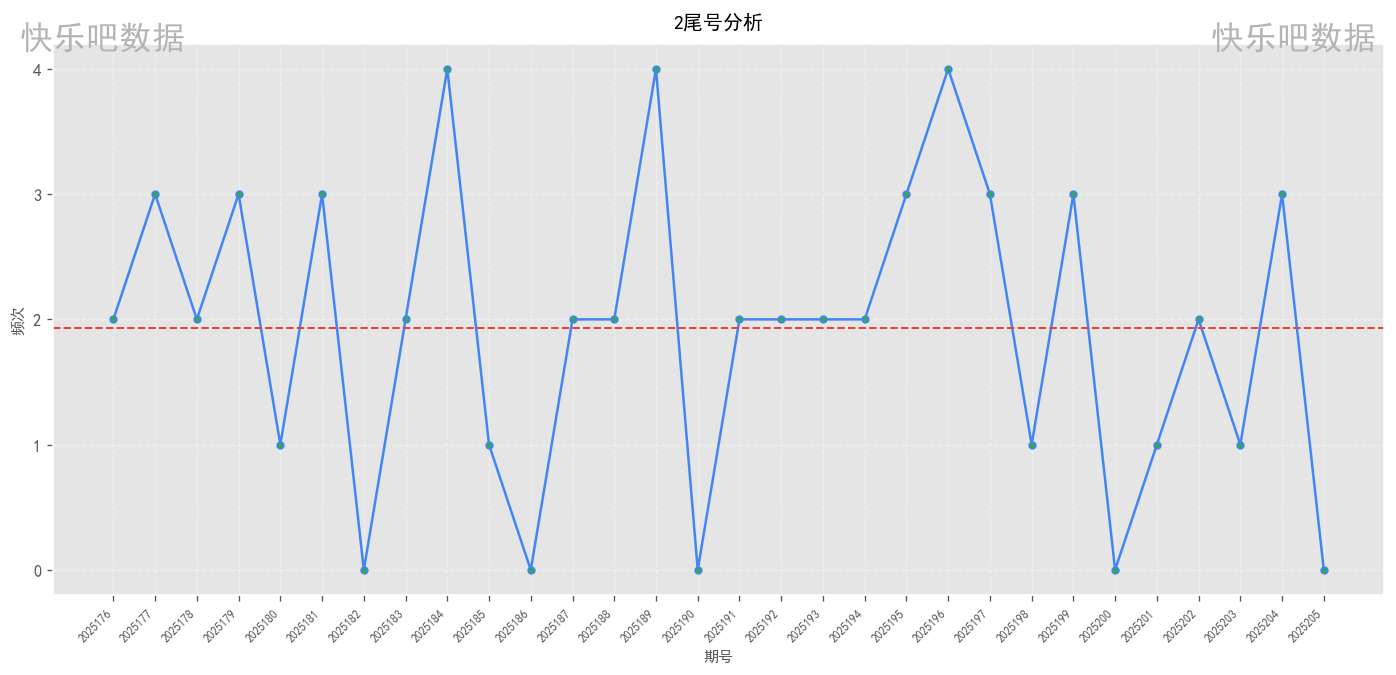
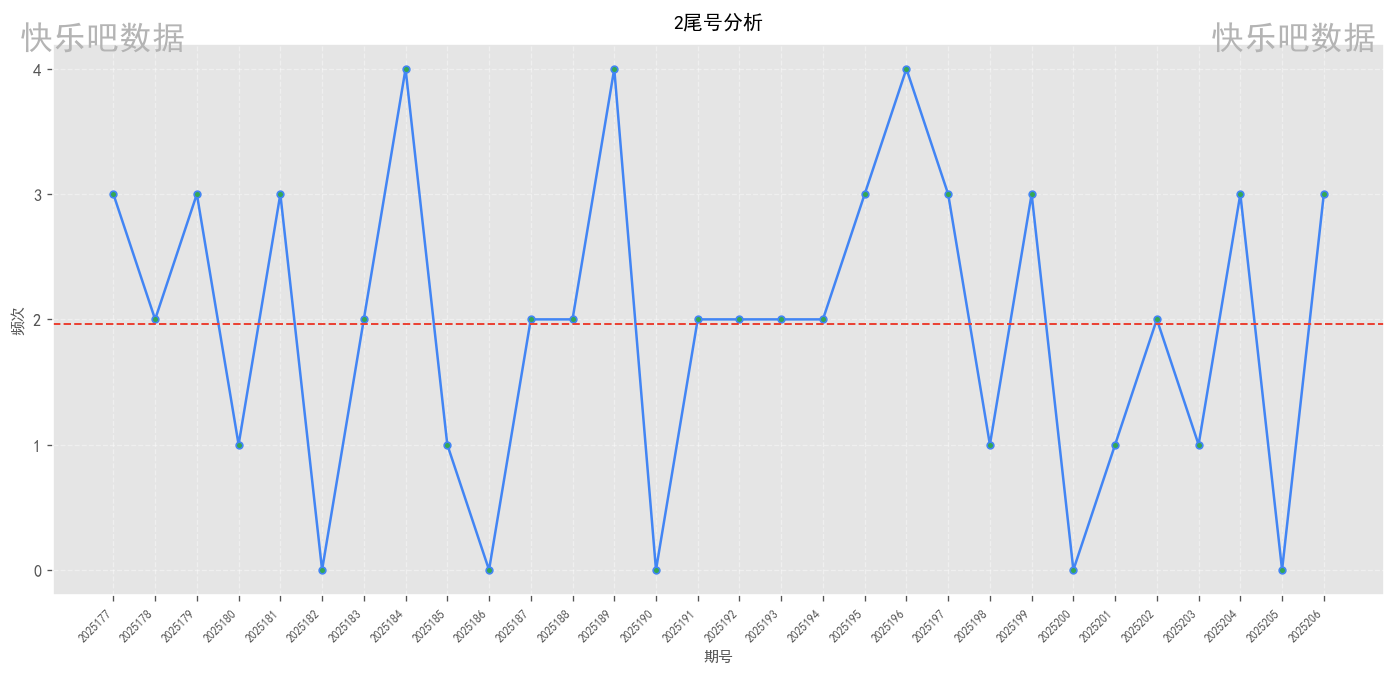
自动提交报告 20250804_2313

diff --git a/快乐8尾号分析项目/数据报告/20250804/report.html b/快乐8尾号分析项目/数据报告/20250804/report.html
@@ -440,7 +440,7 @@
                     <div class="label">尾号区间</div>
                 </div>
                 <div class="overview-card">
-                    <div class="value">2025205</div>
+                    <div class="value">2025206</div>
                     <div class="label">最新期号</div>
                 </div>
                 <div class="overview-card">
@@ -464,11 +464,11 @@
             <div class="stats-summary">
                 <div class="stat-item">
                     <span class="stat-label">历史平均</span>
-                    <span class="stat-value">2.10</span>
+                    <span class="stat-value">2.17</span>
                 </div>
                 <div class="stat-item">
                     <span class="stat-label">近期平均</span>
-                    <span class="stat-value">2.60</span>
+                    <span class="stat-value">2.80</span>
                 </div>
                 <div class="stat-item">
                     <span class="stat-label">最高频次</span>
@@ -486,11 +486,11 @@
             <div class="stats-summary">
                 <div class="stat-item">
                     <span class="stat-label">历史平均</span>
-                    <span class="stat-value">2.10</span>
+                    <span class="stat-value">1.97</span>
                 </div>
                 <div class="stat-item">
                     <span class="stat-label">近期平均</span>
-                    <span class="stat-value">2.20</span>
+                    <span class="stat-value">1.80</span>
                 </div>
                 <div class="stat-item">
                     <span class="stat-label">最高频次</span>
@@ -508,11 +508,11 @@
             <div class="stats-summary">
                 <div class="stat-item">
                     <span class="stat-label">历史平均</span>
-                    <span class="stat-value">1.93</span>
+                    <span class="stat-value">1.97</span>
                 </div>
                 <div class="stat-item">
                     <span class="stat-label">近期平均</span>
-                    <span class="stat-value">1.40</span>
+                    <span class="stat-value">1.80</span>
                 </div>
                 <div class="stat-item">
                     <span class="stat-label">最高频次</span>
@@ -530,11 +530,11 @@
             <div class="stats-summary">
                 <div class="stat-item">
                     <span class="stat-label">历史平均</span>
-                    <span class="stat-value">2.30</span>
+                    <span class="stat-value">2.33</span>
                 </div>
                 <div class="stat-item">
                     <span class="stat-label">近期平均</span>
-                    <span class="stat-value">3.00</span>
+                    <span class="stat-value">2.40</span>
                 </div>
                 <div class="stat-item">
                     <span class="stat-label">最高频次</span>
@@ -552,11 +552,11 @@
             <div class="stats-summary">
                 <div class="stat-item">
                     <span class="stat-label">历史平均</span>
-                    <span class="stat-value">1.70</span>
+                    <span class="stat-value">1.77</span>
                 </div>
                 <div class="stat-item">
                     <span class="stat-label">近期平均</span>
-                    <span class="stat-value">1.60</span>
+                    <span class="stat-value">1.80</span>
                 </div>
                 <div class="stat-item">
                     <span class="stat-label">最高频次</span>
@@ -574,11 +574,11 @@
             <div class="stats-summary">
                 <div class="stat-item">
                     <span class="stat-label">历史平均</span>
-                    <span class="stat-value">2.20</span>
+                    <span class="stat-value">2.17</span>
                 </div>
                 <div class="stat-item">
                     <span class="stat-label">近期平均</span>
-                    <span class="stat-value">1.60</span>
+                    <span class="stat-value">1.80</span>
                 </div>
                 <div class="stat-item">
                     <span class="stat-label">最高频次</span>
@@ -596,11 +596,11 @@
             <div class="stats-summary">
                 <div class="stat-item">
                     <span class="stat-label">历史平均</span>
-                    <span class="stat-value">2.10</span>
+                    <span class="stat-value">2.03</span>
                 </div>
                 <div class="stat-item">
                     <span class="stat-label">近期平均</span>
-                    <span class="stat-value">1.40</span>
+                    <span class="stat-value">1.00</span>
                 </div>
                 <div class="stat-item">
                     <span class="stat-label">最高频次</span>
@@ -618,11 +618,11 @@
             <div class="stats-summary">
                 <div class="stat-item">
                     <span class="stat-label">历史平均</span>
-                    <span class="stat-value">1.70</span>
+                    <span class="stat-value">1.73</span>
                 </div>
                 <div class="stat-item">
                     <span class="stat-label">近期平均</span>
-                    <span class="stat-value">2.60</span>
+                    <span class="stat-value">2.40</span>
                 </div>
                 <div class="stat-item">
                     <span class="stat-label">最高频次</span>
@@ -644,7 +644,7 @@
                 </div>
                 <div class="stat-item">
                     <span class="stat-label">近期平均</span>
-                    <span class="stat-value">1.80</span>
+                    <span class="stat-value">2.20</span>
                 </div>
                 <div class="stat-item">
                     <span class="stat-label">最高频次</span>
@@ -666,7 +666,7 @@
                 </div>
                 <div class="stat-item">
                     <span class="stat-label">近期平均</span>
-                    <span class="stat-value">1.80</span>
+                    <span class="stat-value">2.00</span>
                 </div>
                 <div class="stat-item">
                     <span class="stat-label">最高频次</span>
@@ -690,7 +690,7 @@
         <div class="disclaimer">
             <div class="disclaimer-title"><i class="fas fa-exclamation-circle"></i> 法律声明</div>
             <p>本分析报告基于中国福利彩票官网公开数据制作，仅供历史数据分析与参考，严禁用于赌博或任何违法违规用途。</p>
-            <p>根据中国法律，禁止向未成年人传播彩票相关信息。数据统计周期: 2025176期-2025205期 | 生成时间: 2025-08-04 23:06</p>
+            <p>根据中国法律，禁止向未成年人传播彩票相关信息。数据统计周期: 2025177期-2025206期 | 生成时间: 2025-08-04 23:13</p>
         </div>
 
         <!-- 操作按钮 -->
